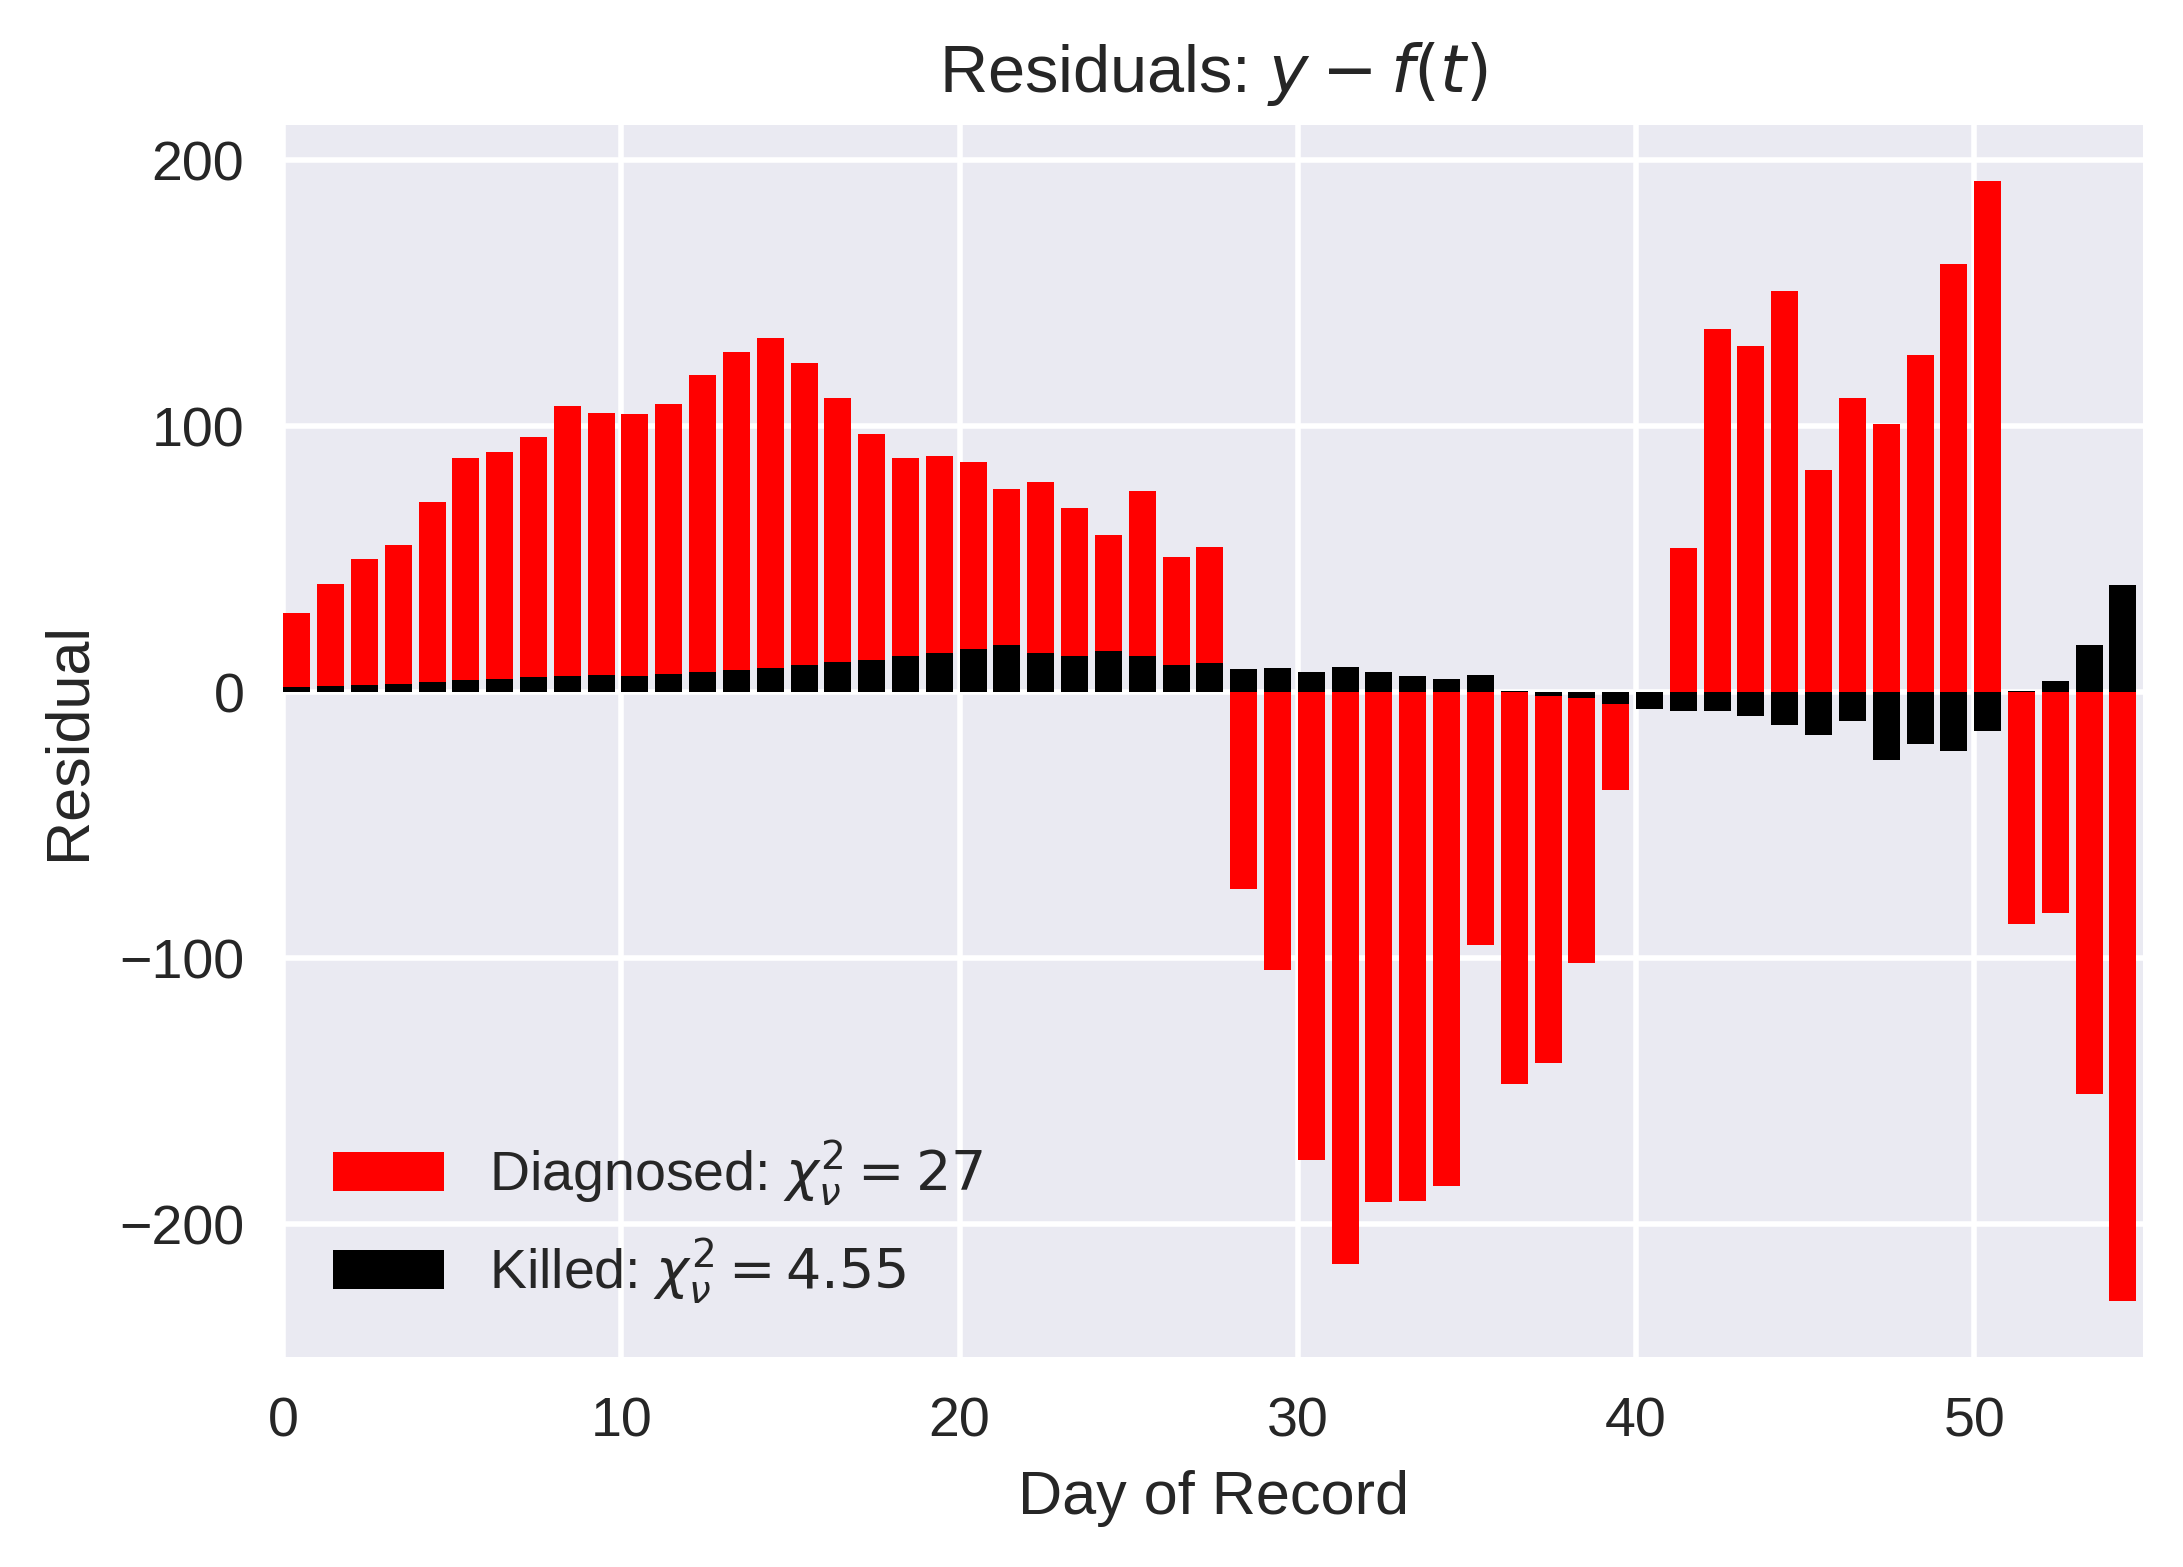
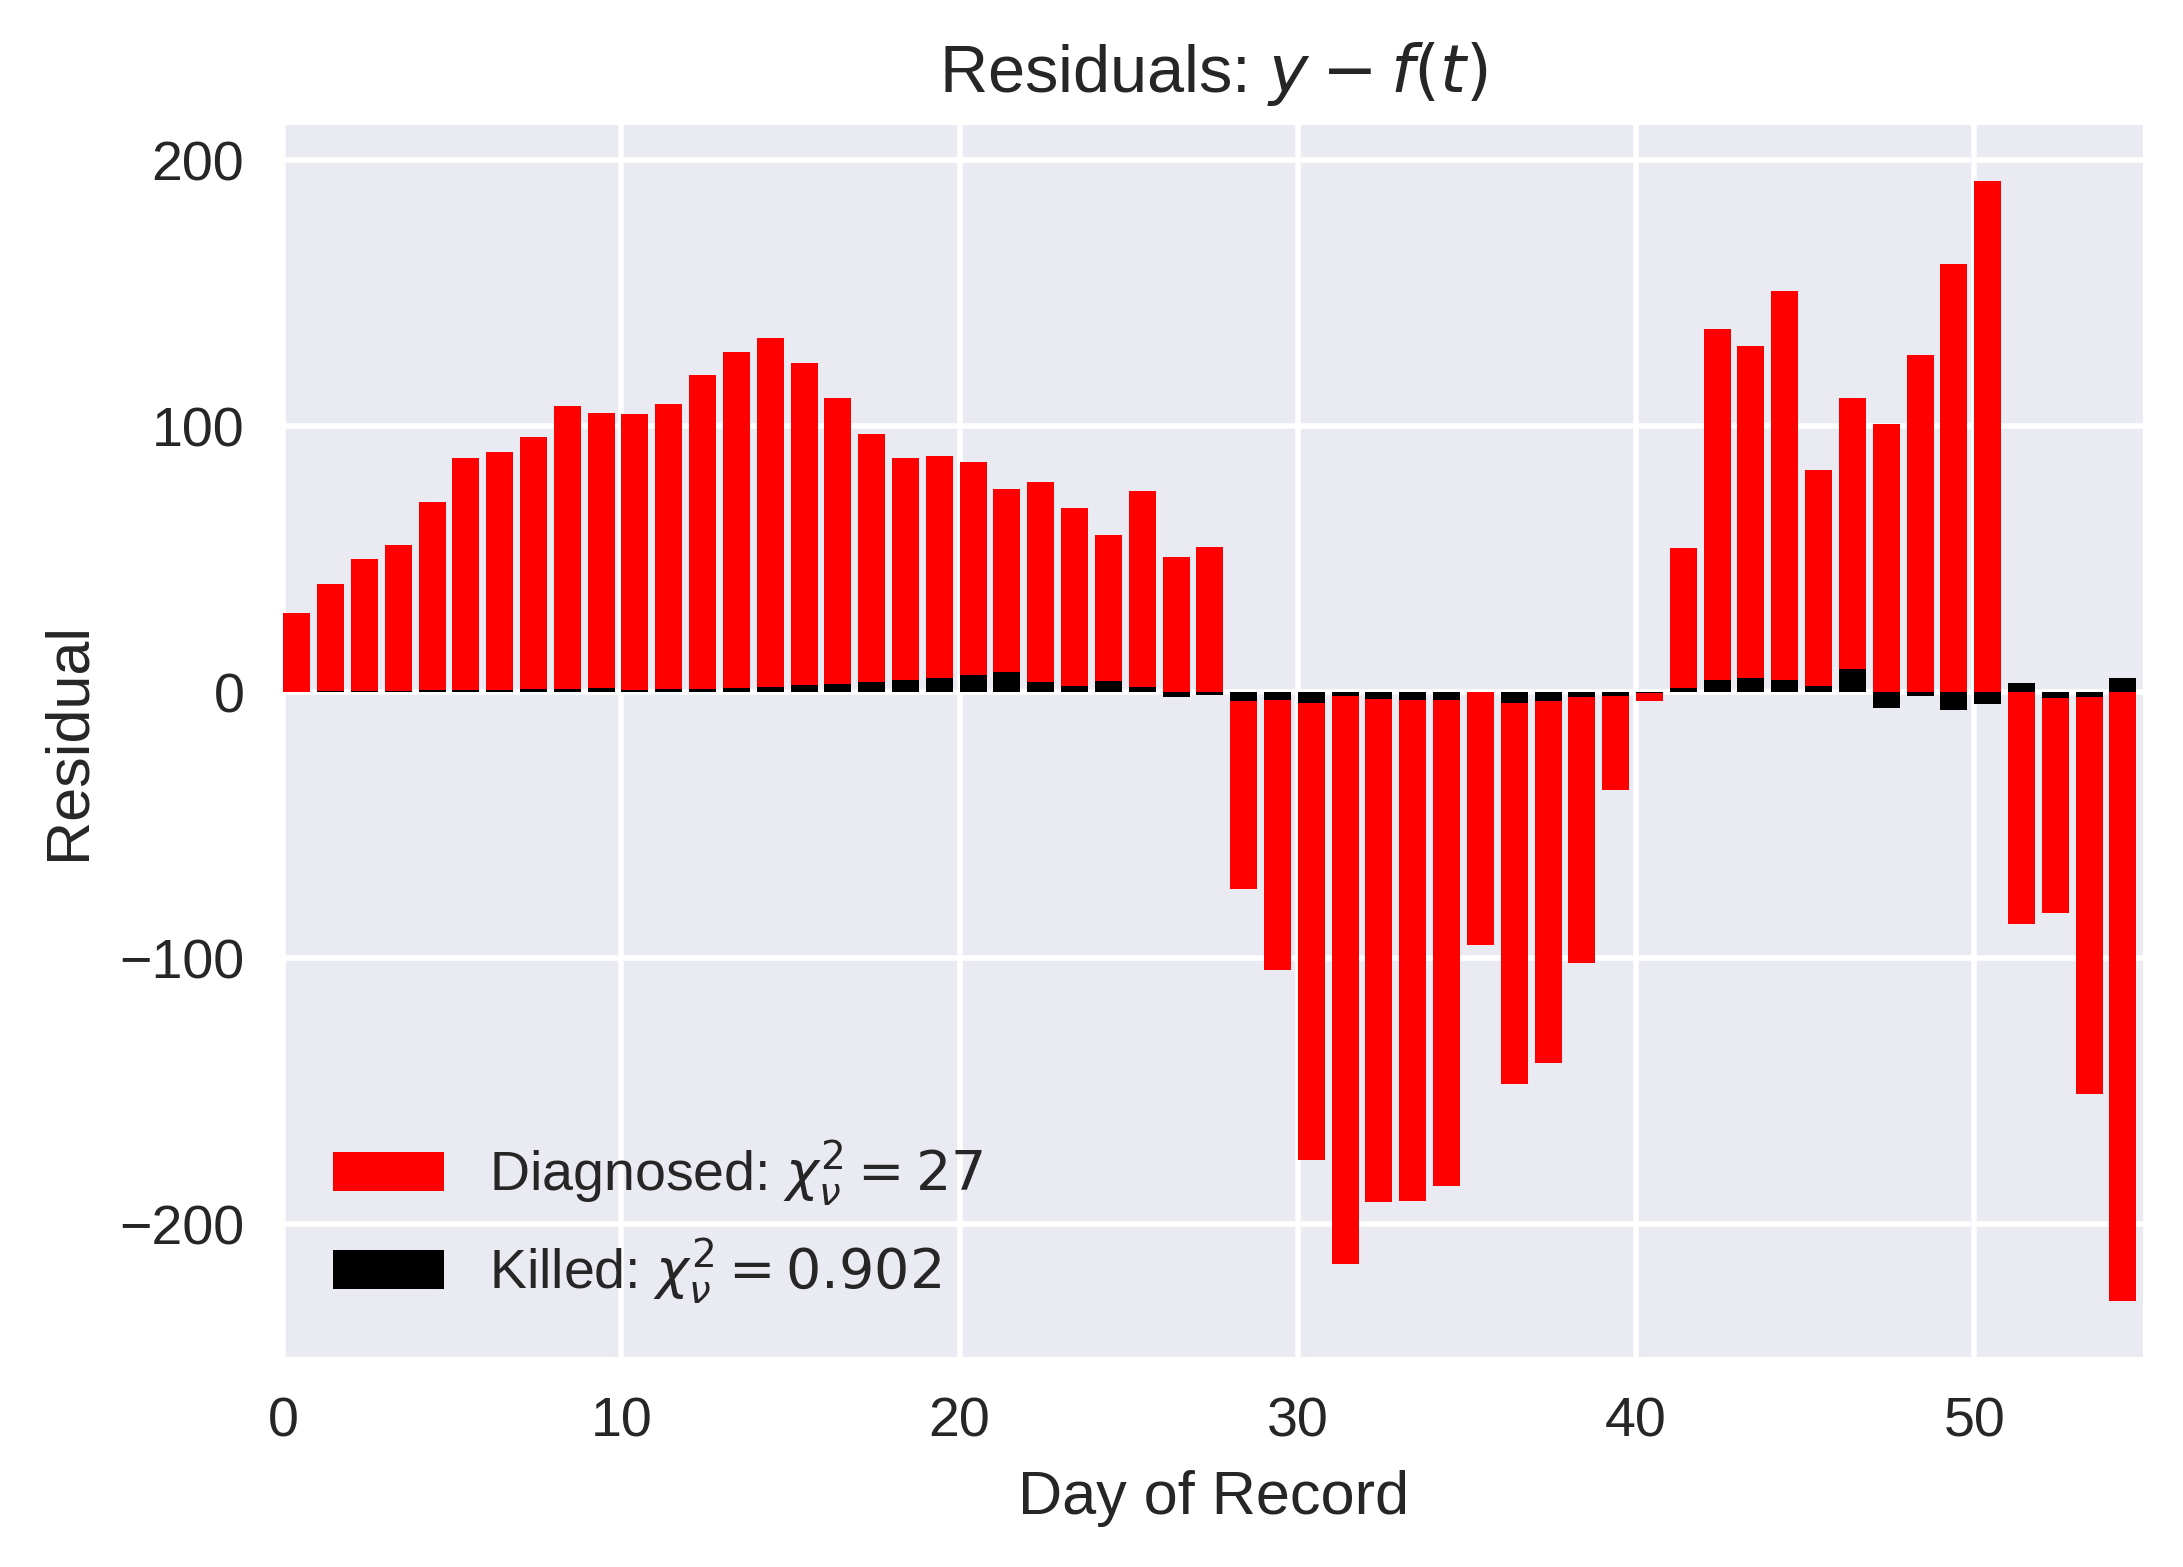
drop 7-day estimates, log-fit death toll

Changed region(s): [[0.1557, 0.3982, 0.7164, 0.4595], [0.7476, 0.3676, 0.9968, 0.4901], [0.3426, 0.7964, 0.4361, 0.8271]]

diff --git a/exponential.py b/exponential.py
@@ -7,7 +7,7 @@ columns = ["diagnosed", "killed"]
 # Specify which model to use: "exp" for exponential, "log" for logistic
 
 models = {"diagnosed": "log",
-          "killed": "exp"}
+          "killed": "log"}
 
 equations = {"exp": "$f(t) = a (1 + b)^t$\n$a = {0:.4f} \pm {2:.5f}$\n$b = {1:.4f} \pm {3:.6f}$",
              "log": "$f(t) = c / (1 + \exp((b - t)/a))$\n$a = {0:.3f} \pm {3:.4f}$\n$b = {1:.2f} \mp {4:.4f}$\n$c = {2:.0f}. \pm {5:.2f}$"}
@@ -175,7 +175,8 @@ for key in columns:
 
     # Overlay model on plot
     plt.text(0.5, max(1000, 0.5 * (upper[1] + y_hat[1])),
-             equations[models[key]].format(*s, *serr),
+              equations[models[key]].format(*s, *serr),
+             fontsize=7,
              color=colors[key],
              va="top",
              zorder=4,
@@ -196,18 +197,18 @@ for key in columns:
         bbox=dict(boxstyle="round", ec="gray", fc="ghostwhite", linewidth=dx)
     )
 
-    plt.text(
-        t_hat[1] - dt,
-        y_hat[1],
-        "{0}/{1}: ({2:.0f} < {3:.0f} < {4:.0f})".format(
-            nextWeek.month, nextWeek.day, lower[1], y_hat[1], upper[1]
-        ),
-        color=colors[key],
-        va="center",
-        ha="center",
-        zorder=3,
-        bbox=dict(boxstyle="round", ec="gray", fc="ghostwhite", linewidth=dx)
-    )
+    # plt.text(
+    #     t_hat[1] - dt,
+    #     y_hat[1],
+    #     "{0}/{1}: ({2:.0f} < {3:.0f} < {4:.0f})".format(
+    #         nextWeek.month, nextWeek.day, lower[1], y_hat[1], upper[1]
+    #     ),
+    #     color=colors[key],
+    #     va="center",
+    #     ha="center",
+    #     zorder=3,
+    #     bbox=dict(boxstyle="round", ec="gray", fc="ghostwhite", linewidth=dx)
+    # )
 
     hw = 12
     hl = t_hat[1] / 100
@@ -227,20 +228,20 @@ for key in columns:
         zorder=3,
     )
 
-    plt.arrow(
-        t_hat[1] - dt,
-        y_hat[1],
-        dt - dx + 0.0625,
-        0,
-        fc="black",
-        ec="black",
-        head_width=hw,
-        head_length=hl,
-        overhang=dx,
-        length_includes_head=True,
-        linewidth=0.5,
-        zorder=2,
-    )
+    # plt.arrow(
+    #     t_hat[1] - dt,
+    #     y_hat[1],
+    #     dt - dx + 0.0625,
+    #     0,
+    #     fc="black",
+    #     ec="black",
+    #     head_width=hw,
+    #     head_length=hl,
+    #     overhang=dx,
+    #     length_includes_head=True,
+    #     linewidth=0.5,
+    #     zorder=2,
+    # )
 
     if t_hat[-1] > t_max:
         t_max = t_hat[-1]
